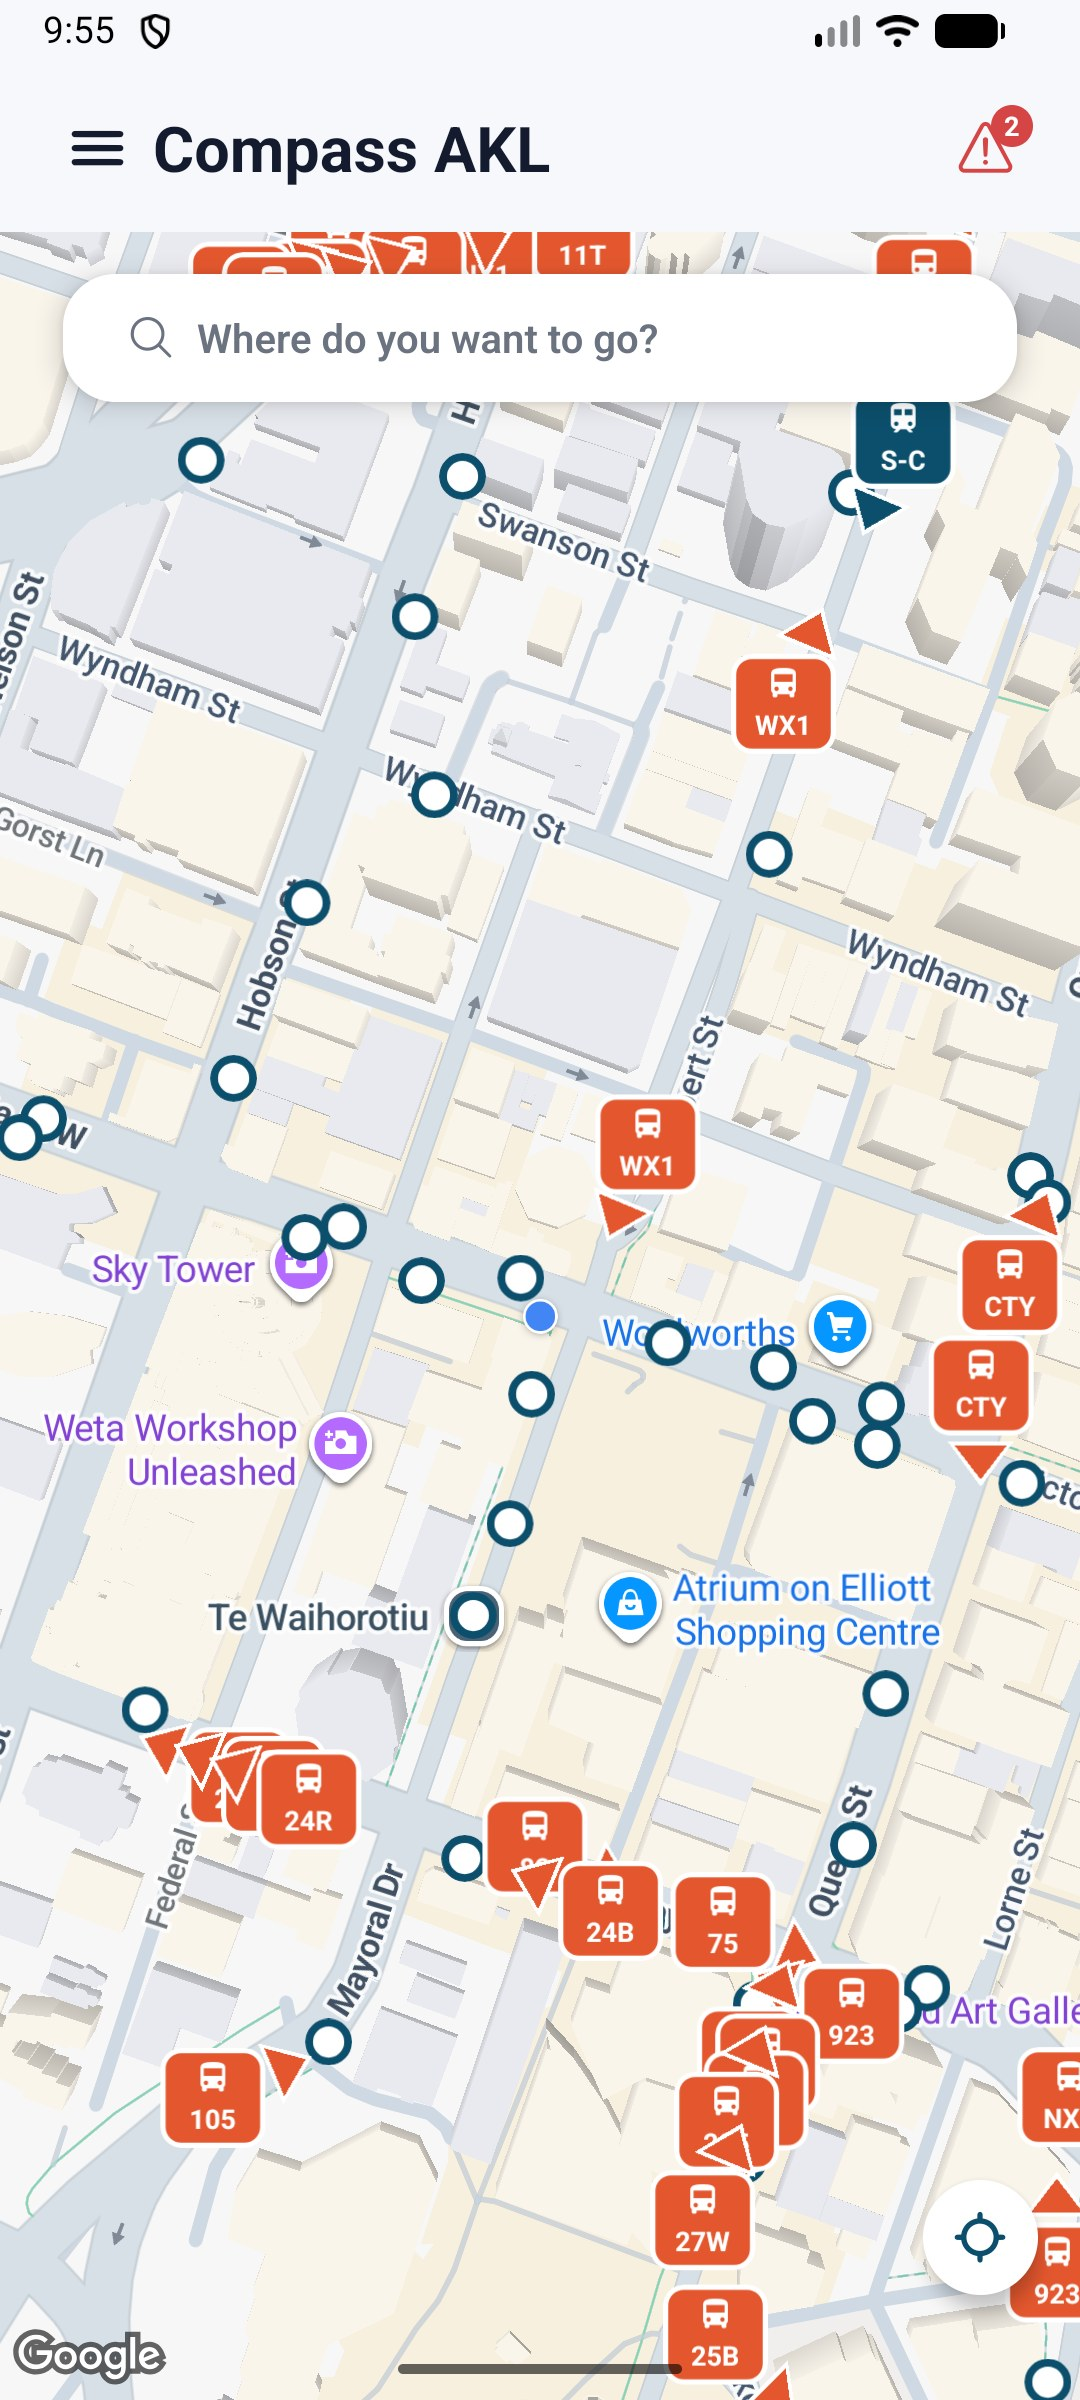
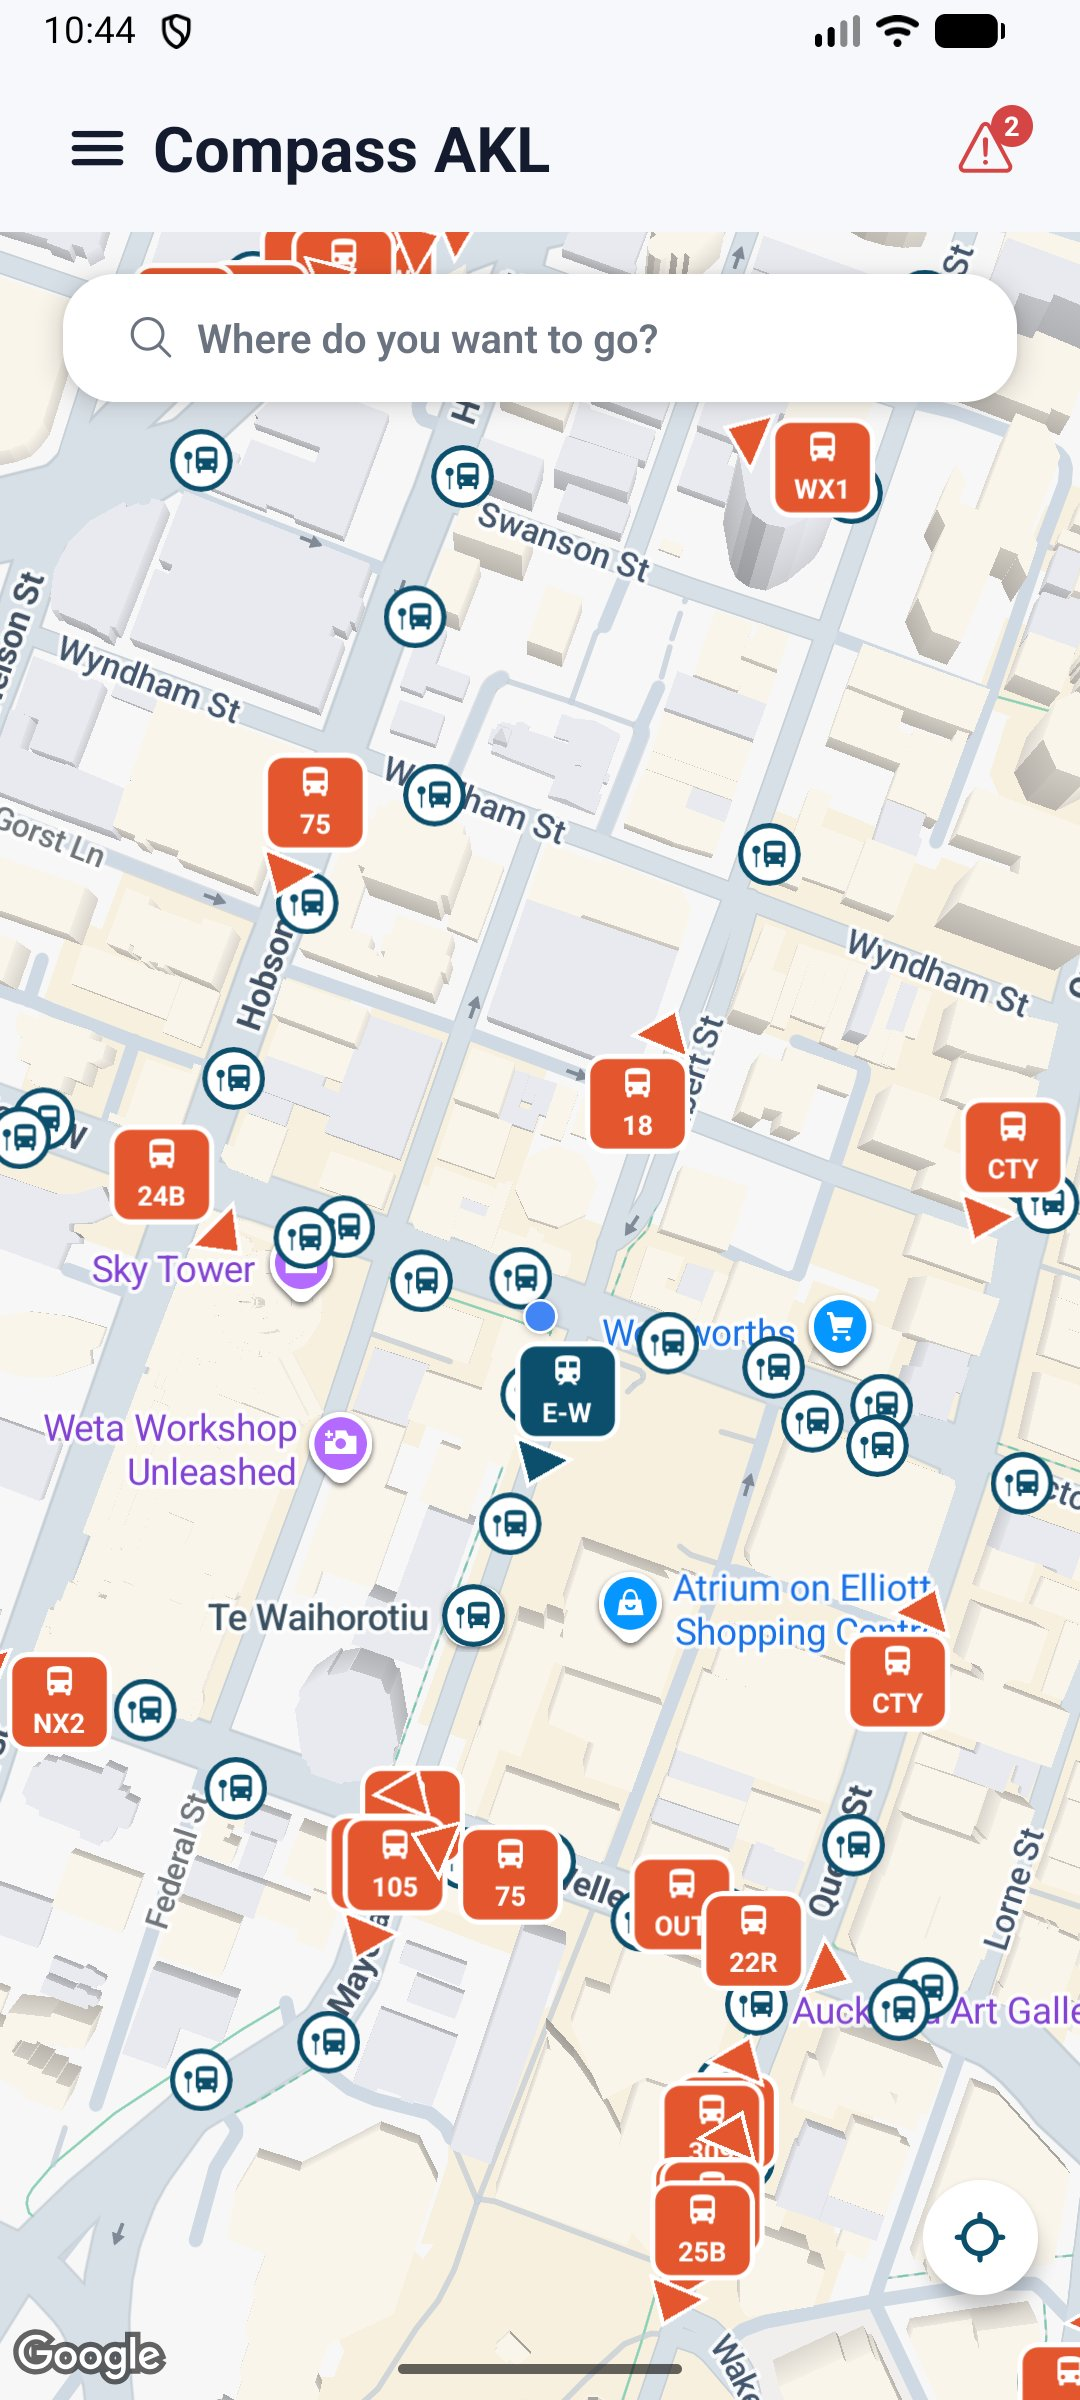
Retake the map screenshots with the bus-stop sign markers

diff --git a/README.md b/README.md
@@ -7,7 +7,7 @@ Built against Auckland Transport's public GTFS + GTFS-Realtime APIs and Google's
 ## Screenshots
 
 <p float="left">
-  <img src="images/live-map.jpg" width="24%" alt="Live map with heading-direction vehicle badges and small stop markers" />
+  <img src="images/live-map.jpg" width="24%" alt="Live map with heading-direction vehicle badges and bus-stop sign markers" />
   <img src="images/route-options.jpg" width="24%" alt="Route options with travel times, transfers, and walking distance" />
   <img src="images/stop-list.jpg" width="24%" alt="Route preview with the full per-leg stop list expanded" />
   <img src="images/nearby-search.jpg" width="24%" alt="Find Nearby chat answering 'European food near Britomart tomorrow at 5pm' with walking times, ratings and opening hours" />
